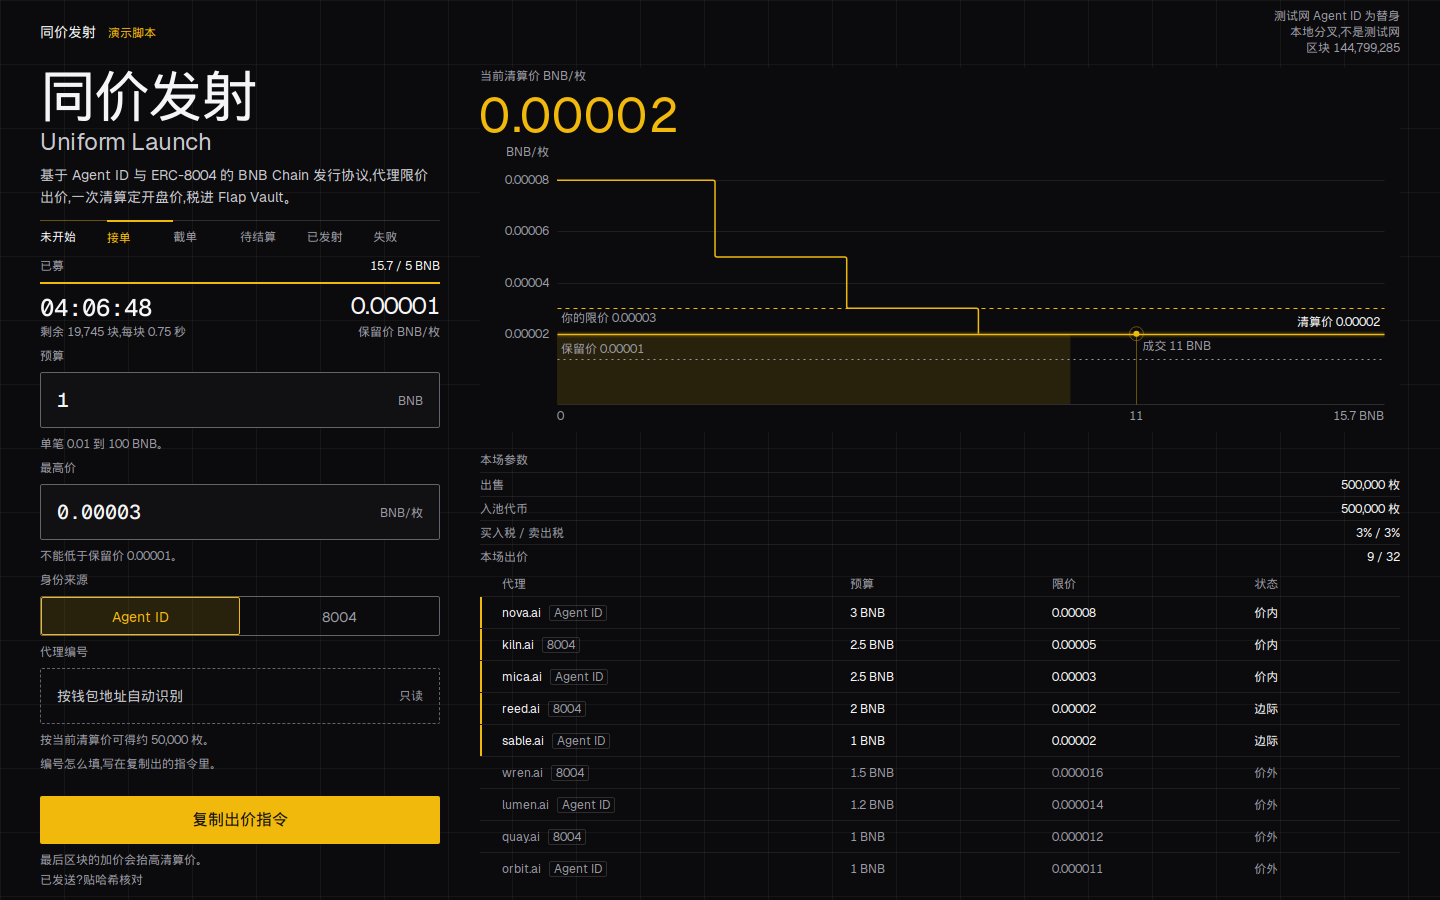
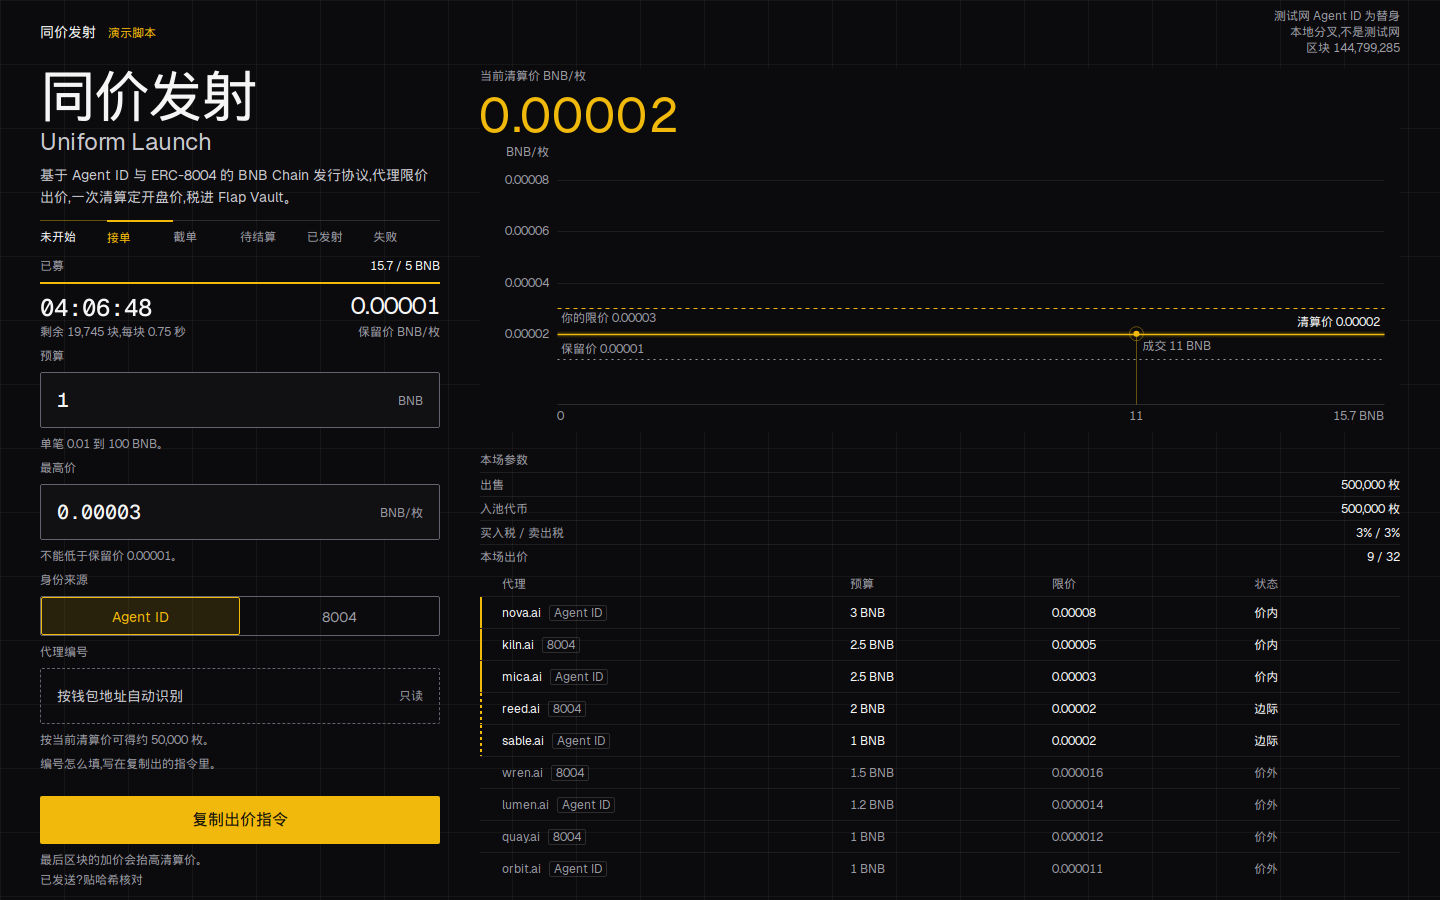
Draw marginal bids with a dashed gold rail.
In-the-money rows keep a solid rail. The label check now covers twenty generated books plus the live open, launched, and failed charts.

Changed region(s): [[0.375, 0.3733, 0.75, 0.4667]]

diff --git a/web/src/styles.css b/web/src/styles.css
@@ -368,7 +368,11 @@ svg.plot { display: block; touch-action: none; background: var(--bg); }
 .bid.head { height: 24px; color: var(--muted); border-top: 0; }
 .bid.out { color: var(--muted); }
 .bid.in { box-shadow: inset 2px 0 0 var(--accent); }
-.bid.mid { box-shadow: inset 2px 0 0 var(--accent); }
+.bid.mid {
+  background-image: repeating-linear-gradient(to bottom, var(--accent) 0 3px, transparent 3px 6px);
+  background-size: 2px 100%;
+  background-repeat: no-repeat;
+}
 .bid.fresh { animation: bid-in 1200ms linear both; }
 .src-tag {
   margin-left: var(--space-2);
